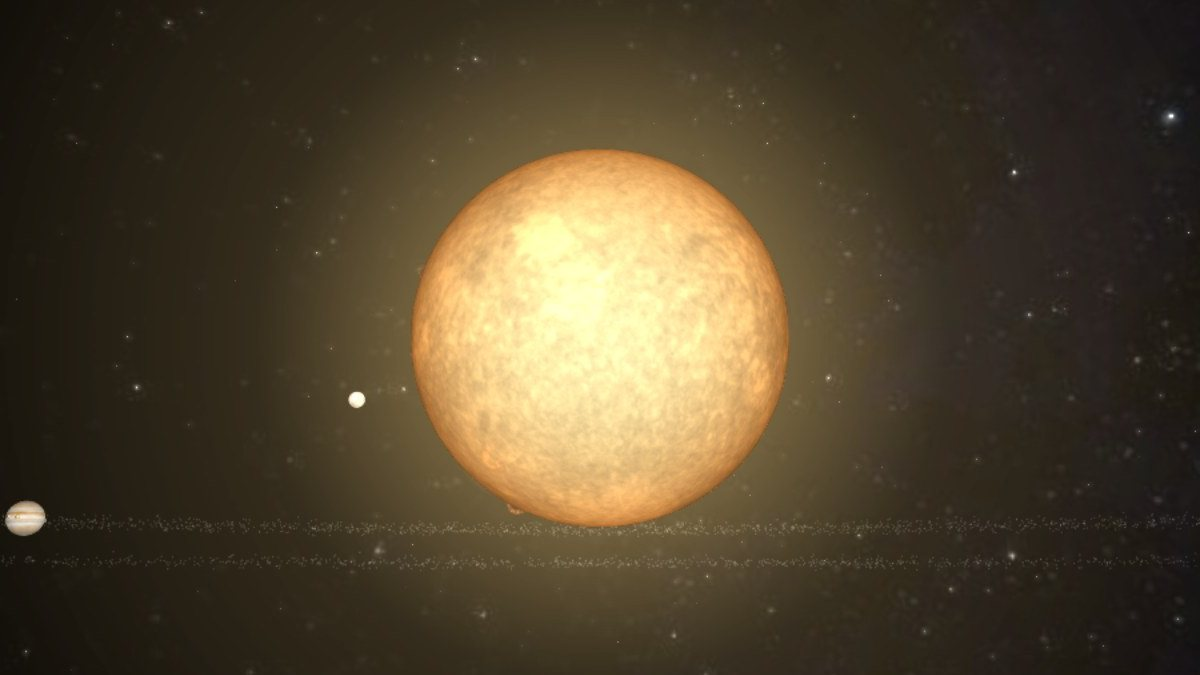
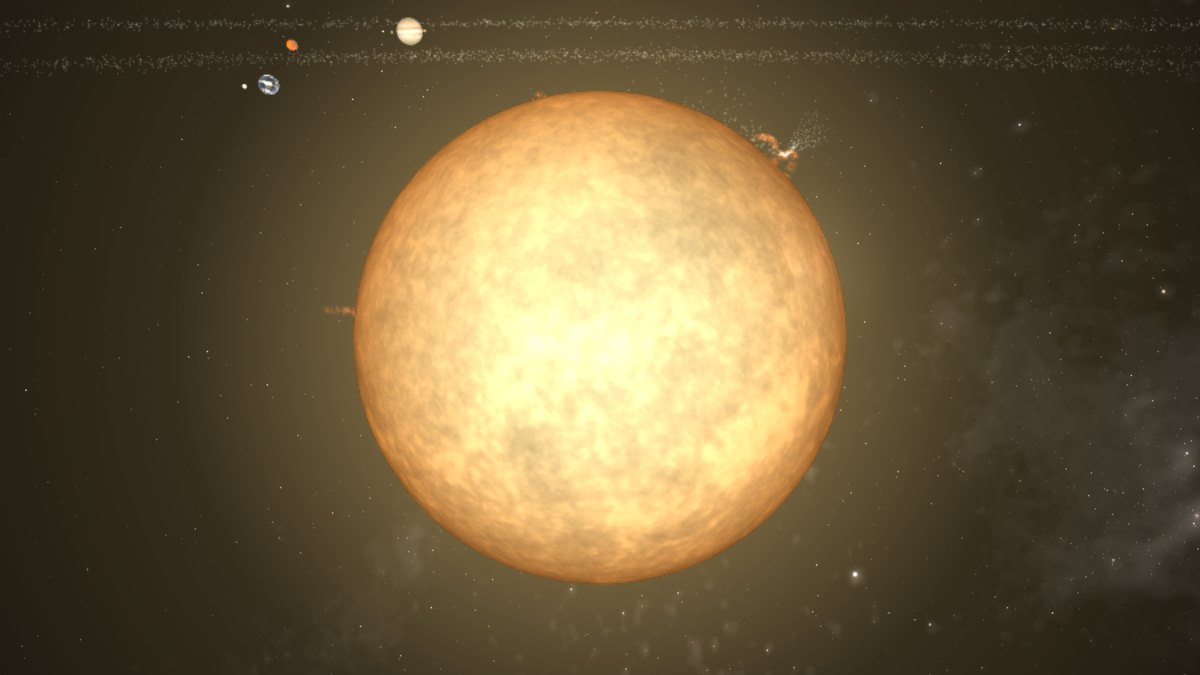
README ve görseller güncellendi: yeni arayüz, gezegen görüntüleri, gerçek ölçek, yıldız fırlatma ve Ara

diff --git a/README.md b/README.md
@@ -70,9 +70,11 @@
 - **İklim modeli.** Yörüngeyi, boyutu ya da atmosferi değiştir; sıcaklık, buzullar, okyanuslar ve yaşanabilirlik puanı canlı olarak güncellenir.
 - **Kütleçekim simülasyonu.** Gezegenler birbirini çeker. İki gezegeni çarpıştırabilirsin; Roche sınırını aşan uydular parçalanır.
 - **Yıldızın ölümü.** Güneş'i kırmızı deve, beyaz cüceye, süpernovaya ya da kara deliğe dönüştürebilirsin. Kara deliğe fazla yaklaşan gezegen spagetti gibi uzayıp parçalanarak yutulur.
+- **Yıldız fırlat.** Eklediğin yıldızı Güneş'e, bir gezegene ya da kara deliğe fırlat; kompakt çiftler kütleçekim dalgasıyla sarmalanıp birleşir, normal yıldızlar ortak zarf gazıyla iç içe geçer.
 - **Işığı büken kara delik.** Kara deliğe yaklaşınca her piksel için ışığın yolu Schwarzschild uzay-zamanında hesaplanır. Diskin arka tarafı gölgenin üstüne ve altına sarılır, arkadaki gezegenler ve yıldızlar uzaklıklarına göre bükülür, Einstein halkası oluşur.
 - **Zamanı geri sar.** Çarpışmaları ve felaketleri geri alabilirsin; ileri oynatınca aynen yeniden yaşanırlar.
 - **Kendi gezegenini yarat.** Ekle kataloğundan gezegen, yıldız, nötron yıldızı ya da kara delik seç; yalnızca o cismin ayarları çıkar. Sistemi bir kodla arkadaşına gönderebilirsin.
+- **Gerçek ölçek.** Üstteki Görünüm menüsündeki mesafe ayarında "Gerçek ölçek"i seç: boyutlar ve uzaklıklar gerçek oranlarında olur. Gezegenlerin çoğu pikselden küçüktür; yerlerini küçük bir nokta gösterir, yaklaşınca gerçek küre görünür.
 - **Gelgit kilidi, yüzey görünümü, ölçek yolculuğu.** Bir gezegenin yüzeyinden gökyüzüne bakabilir ya da Güneş'ten en yakın yıldızlara kadar uçabilirsin.
 
 ## 🎧 Ekstralar
@@ -82,6 +84,7 @@ Bunların hepsi isteğe bağlı:
 - Gerçek fırtına mevsimlerine göre oluşan kasırgalar.
 - Kutup ışıkları.
 - Güneş rüzgârı parçacıkları.
+- **Ara** düğmesi: gök cisimlerini ve eylemleri ("Güneş'i kara deliğe dönüştür", "Sonraki Ay tutulması" gibi) yazarak bul.
 - Telefona uygun arayüz.
 
 <div align="center">
@@ -110,6 +113,8 @@ Sonra tarayıcıda **http://localhost:8000** adresini aç. Derleme yok, `npm ins
 |---|---|
 | `main` | Gerçek fotoğraf dokuları |
 | `eski-modeller` | Kodla üretilen (prosedürel) gezegen dokuları. Daha hafiftir; Dünya dışındaki gezegenlerde gerçek doku kullanmaz. |
+
+Geliştirme sırasında açılan diğer dallar (`gercek-olcek`, `laboratuvar-karadelik` gibi) geçmiş için saklanıyor.
 
 ## 🧪 Test
 
